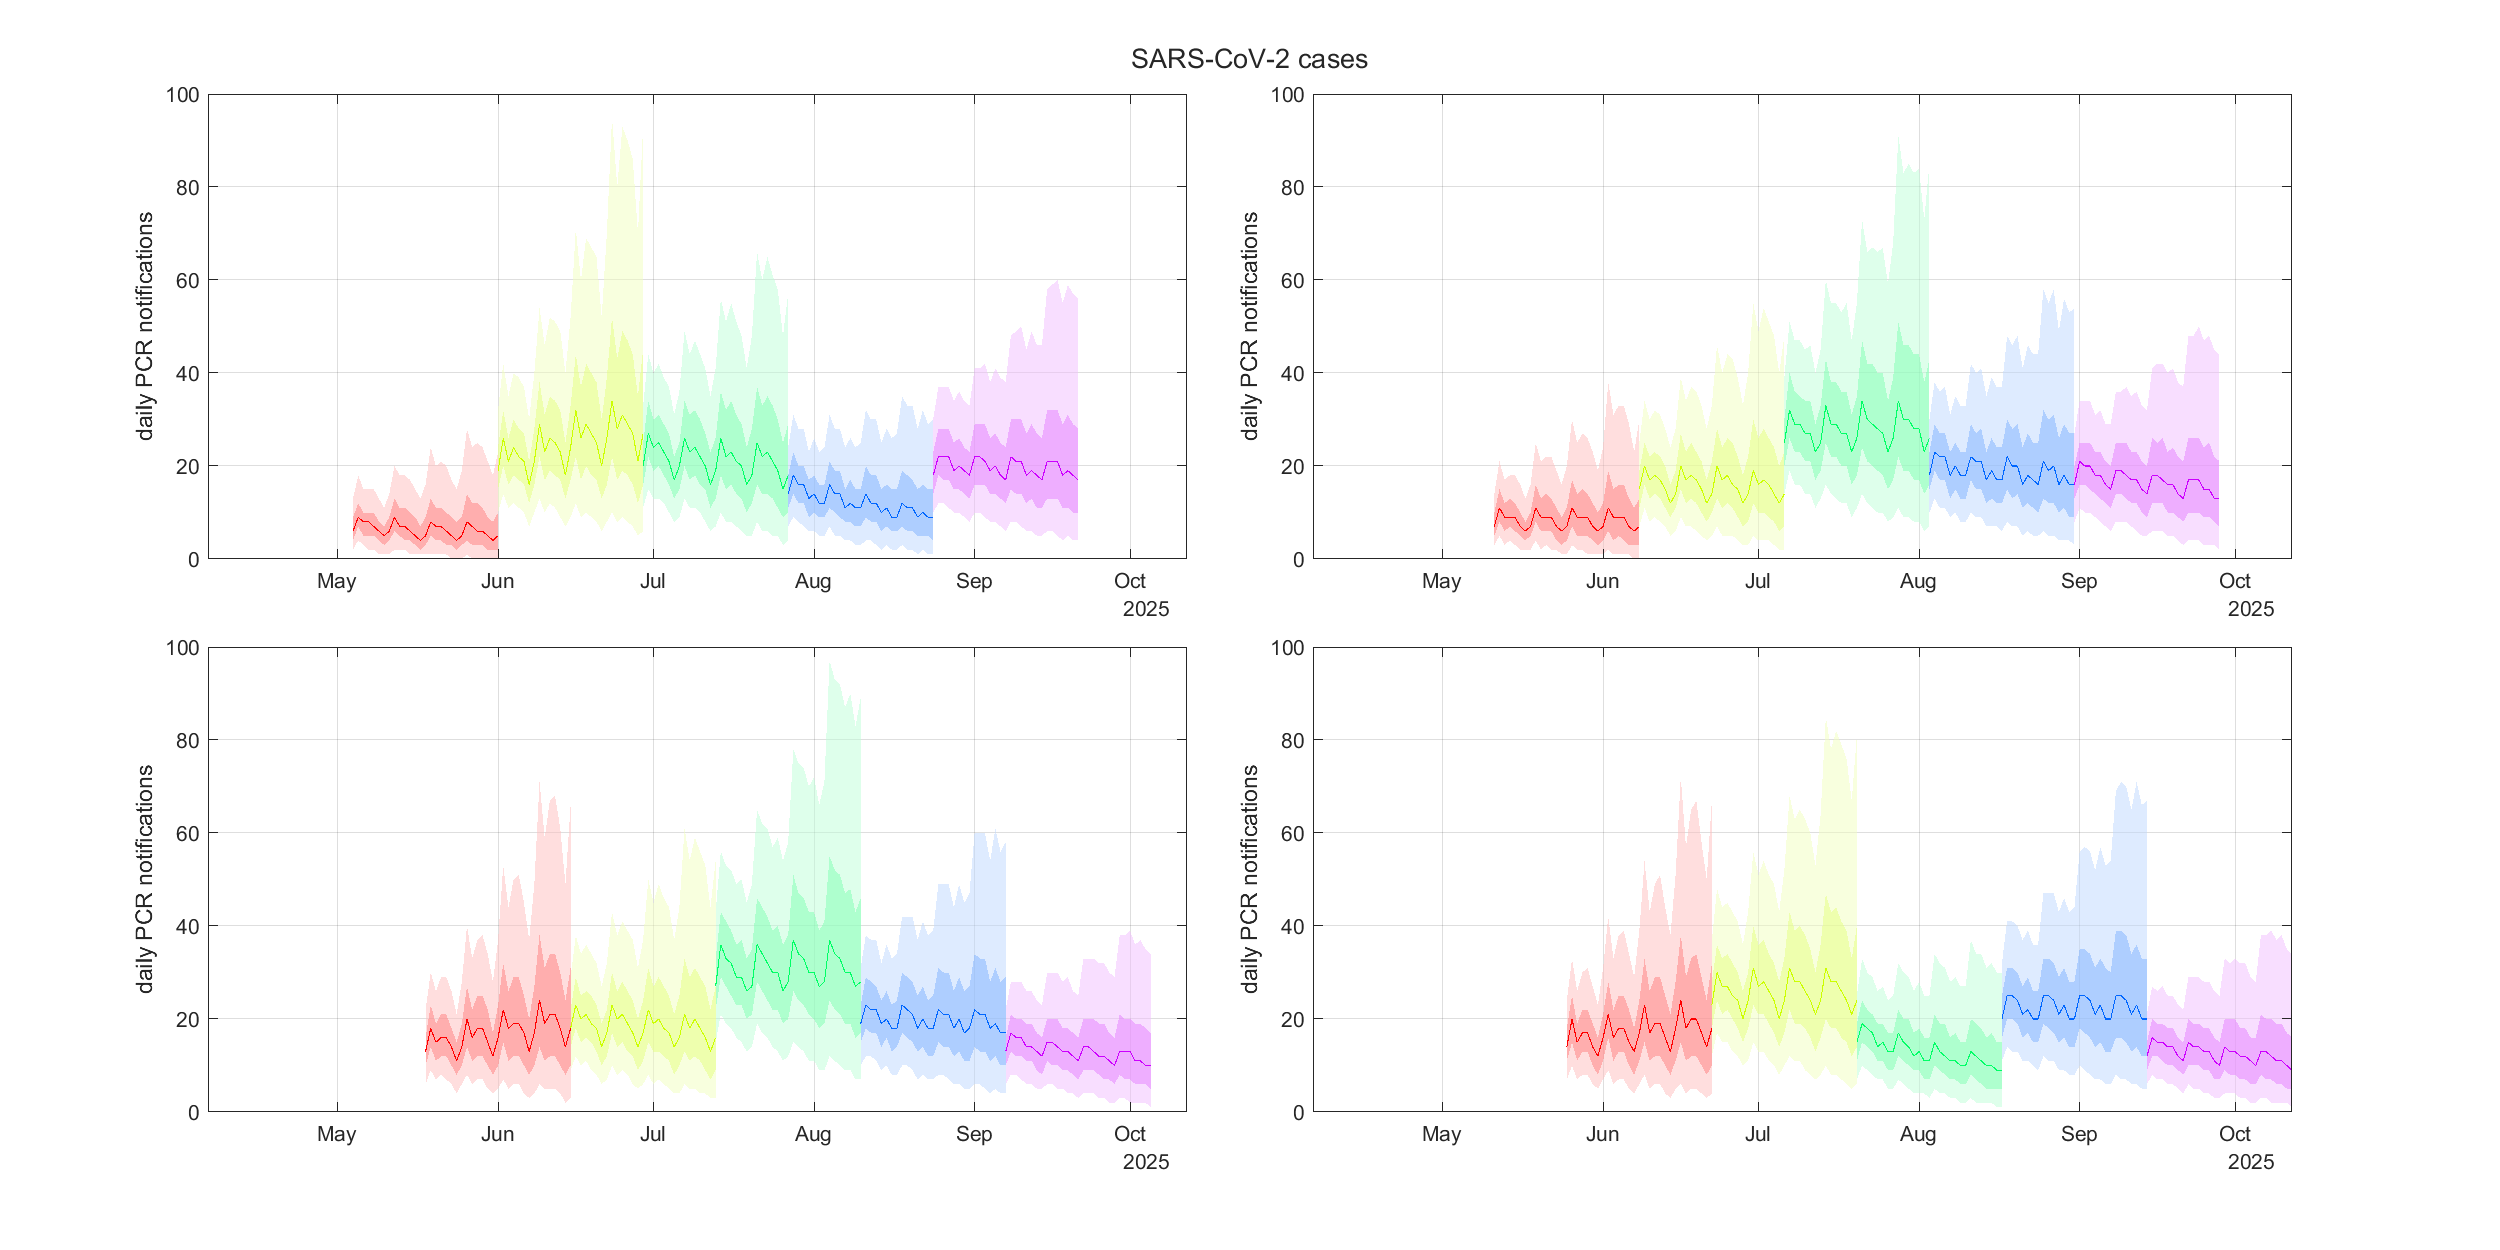
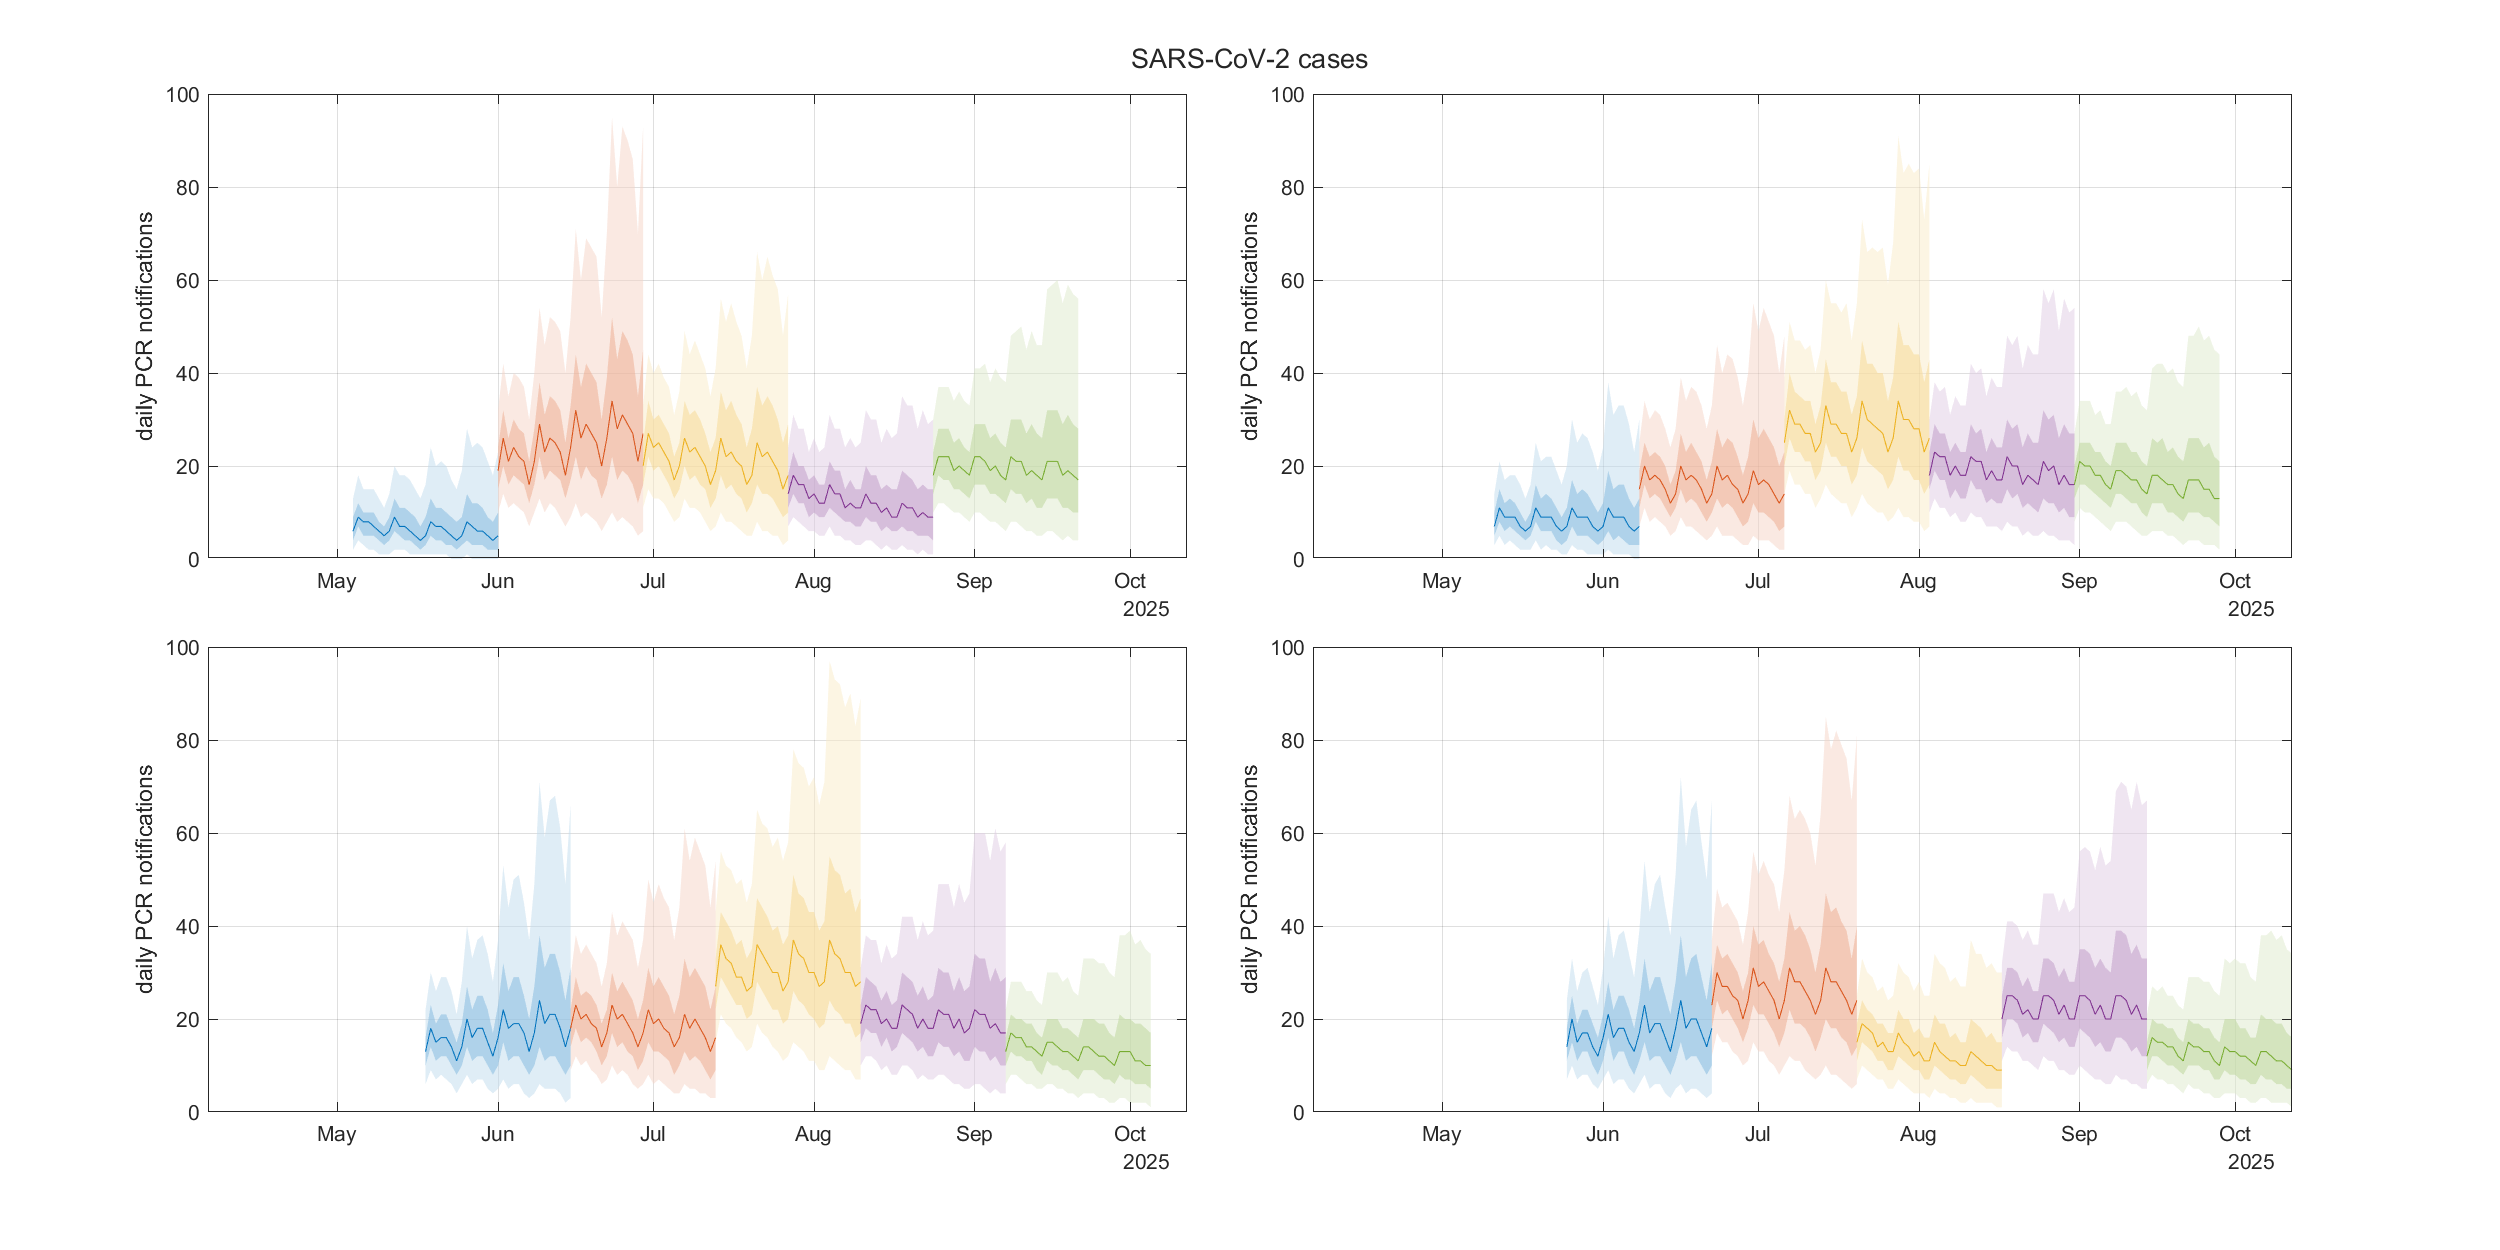
Nicer plots for paper

diff --git a/forecasting_code/plotRetrosepctive.m b/forecasting_code/plotRetrosepctive.m
@@ -60,7 +60,7 @@ fileNames.date_info = "date-information-";
 
 % colour settings
 nCols = 5;
-clrs = hsv(nCols);
+clrs = colororder;
 letters = ["(a)", "(b)", "(c)", "(d)"];
 
 
@@ -199,10 +199,10 @@ for iPathogen = 1:nPathogens
     for iTile = 1:4
         nexttile(iTile);
         if smoothDataFlag
-            plot(tData, nCasesSmoothed, 'r.')
+            plot(tData, nCasesSmoothed, 'k.')
             ylbl = " (smoothed)";
         else
-            plot(tData, nCases, 'r.')
+            plot(tData, nCases, 'k.')
             ylbl = "";
         end
         xlim(tPlot)
@@ -271,10 +271,10 @@ for iPathogen = 1:nPathogens
             nexttile(iTile);
             % Plot data
             if smoothDataFlag
-                plot(tData, nHospSmoothed, 'r.')
+                plot(tData, nHospSmoothed, 'k.')
                 ylbl = " (smoothed)";
             else
-                plot(tData, nHosp, 'r.')
+                plot(tData, nHosp, 'k.')
                 ylbl = "";
             end
             xlim(tPlot)
@@ -310,9 +310,9 @@ for iPathogen = 1:nPathogens
 
     h = figure(100);
     nexttile(iPathogen);
-    plot(tScore, nanmean(scoreCases, 1))
+    plot(tScore, nanmean(scoreCases, 1), 'LineWidth', 2)
     hold on
-    plot(tScore, nanmean(scoreHosp, 1))
+    plot(tScore, nanmean(scoreHosp, 1), 'LineWidth', 2)
     ylim([0 0.65])
     grid on
     xlabel('time horizon (days)')
